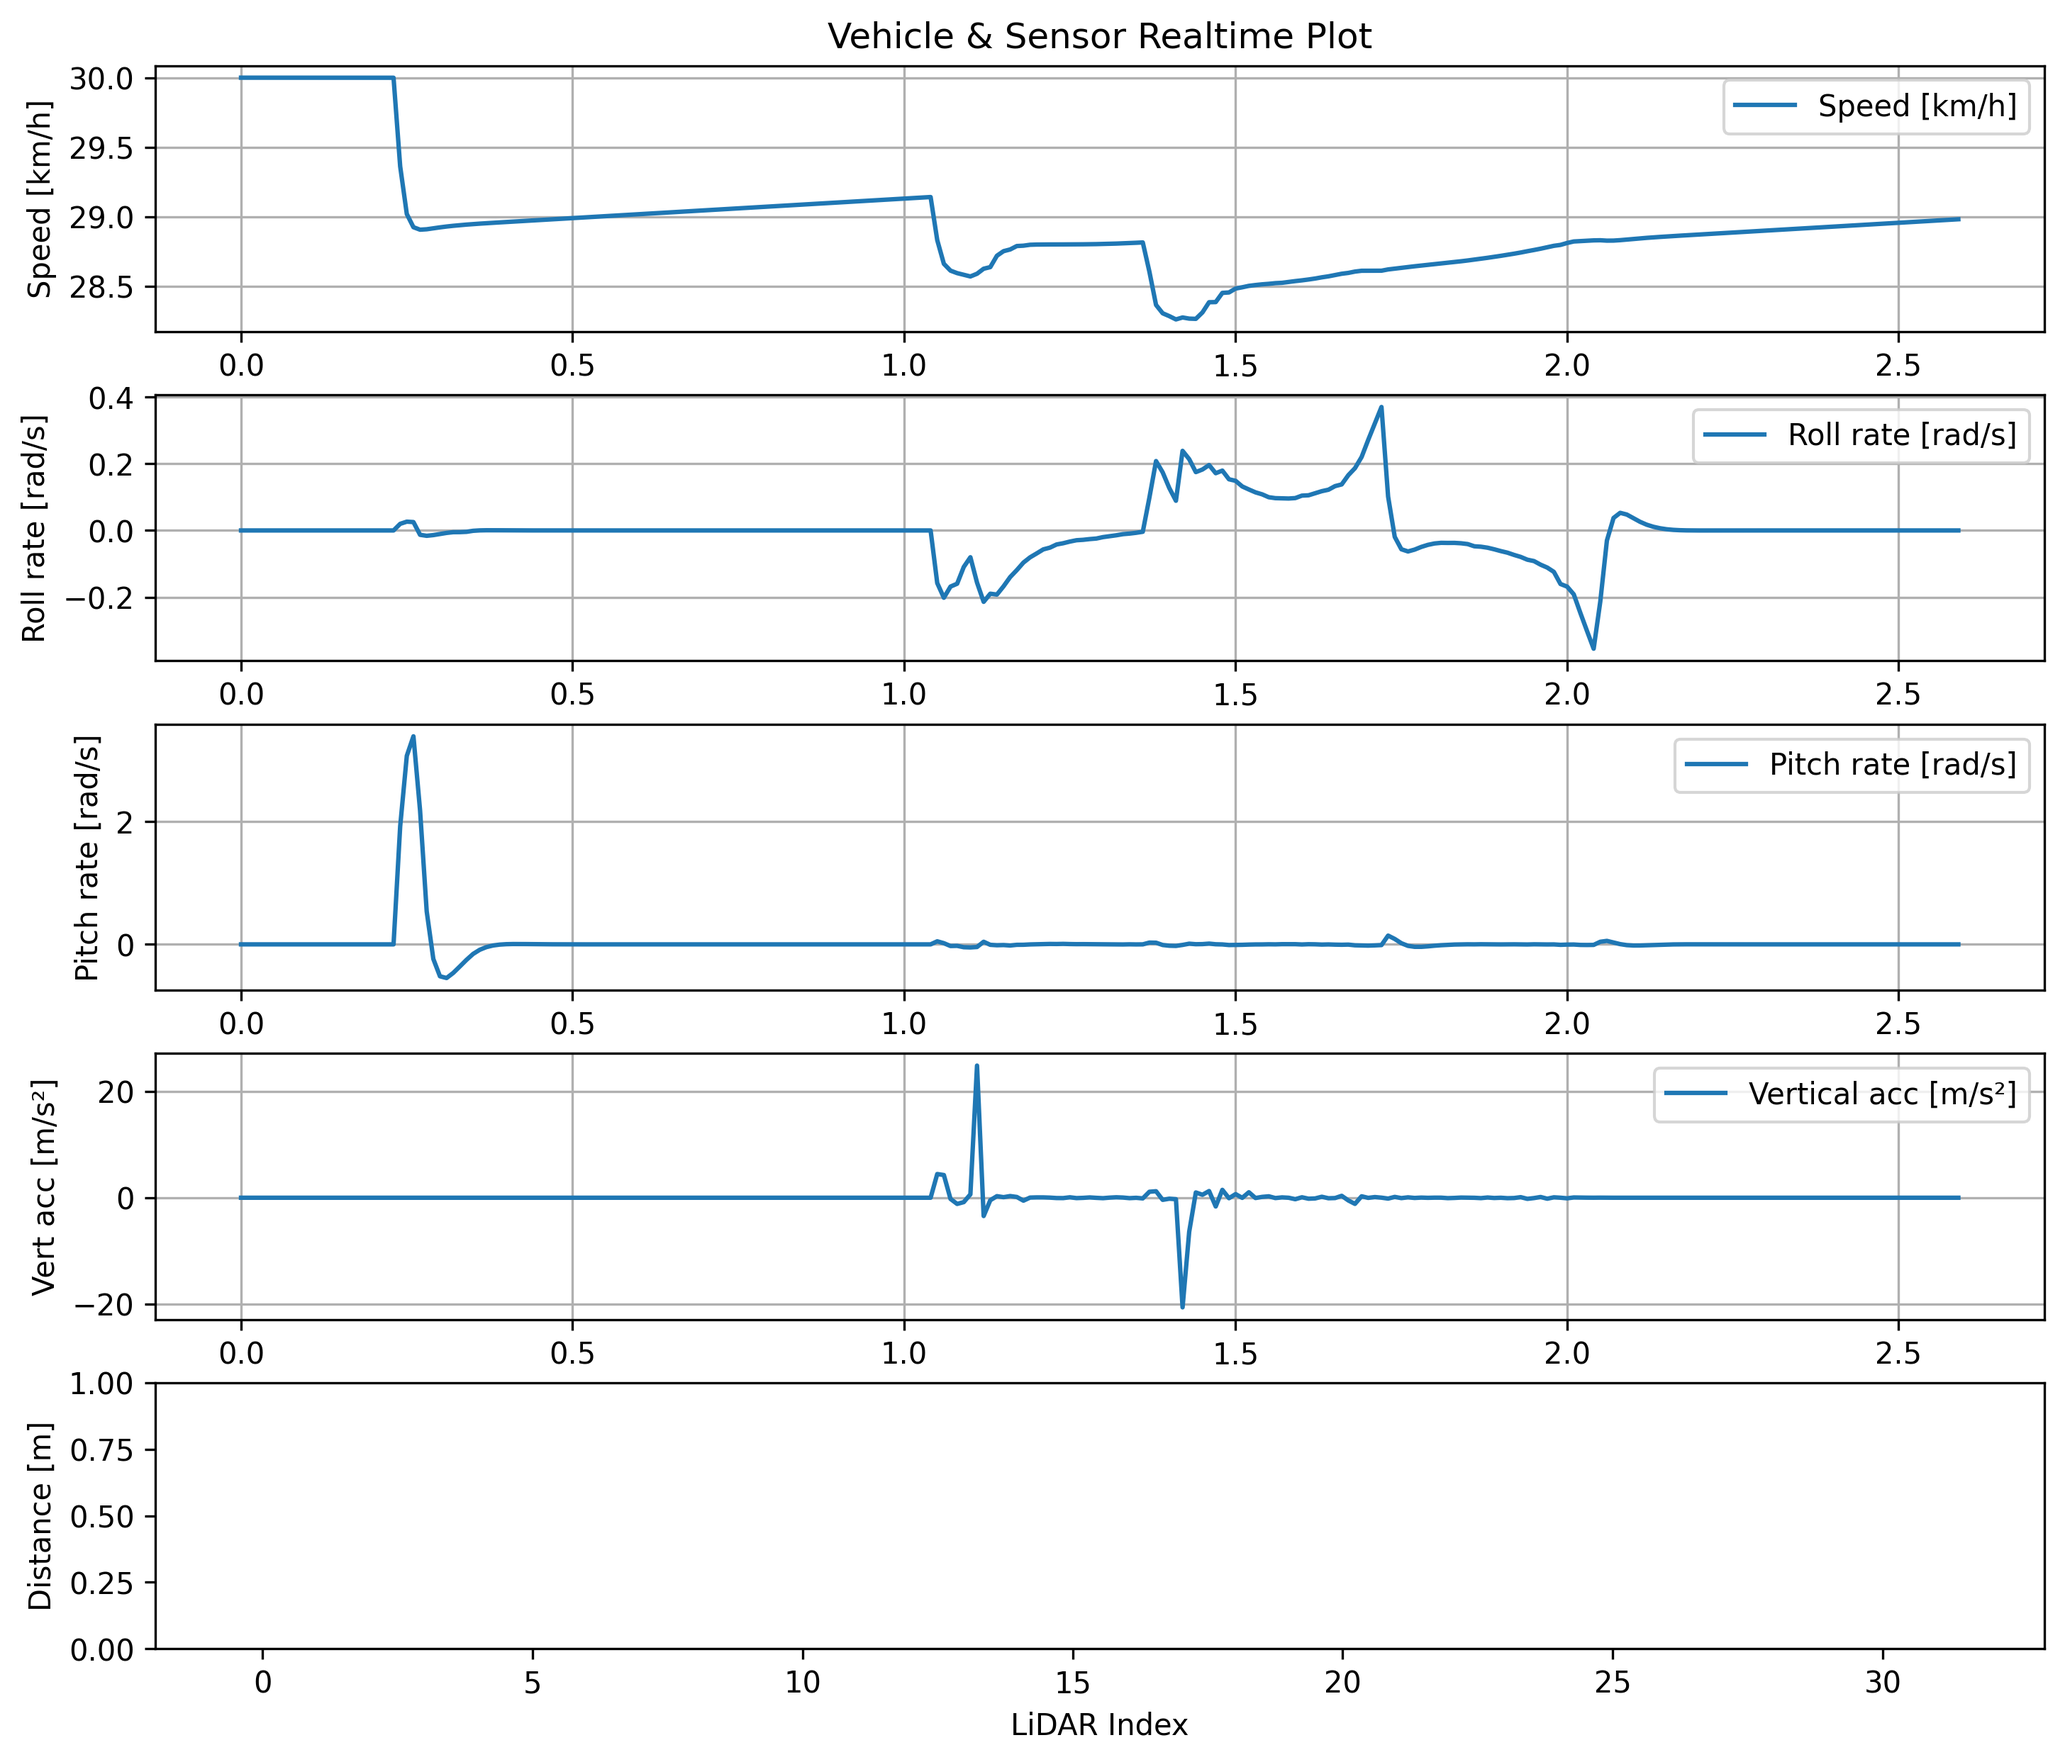
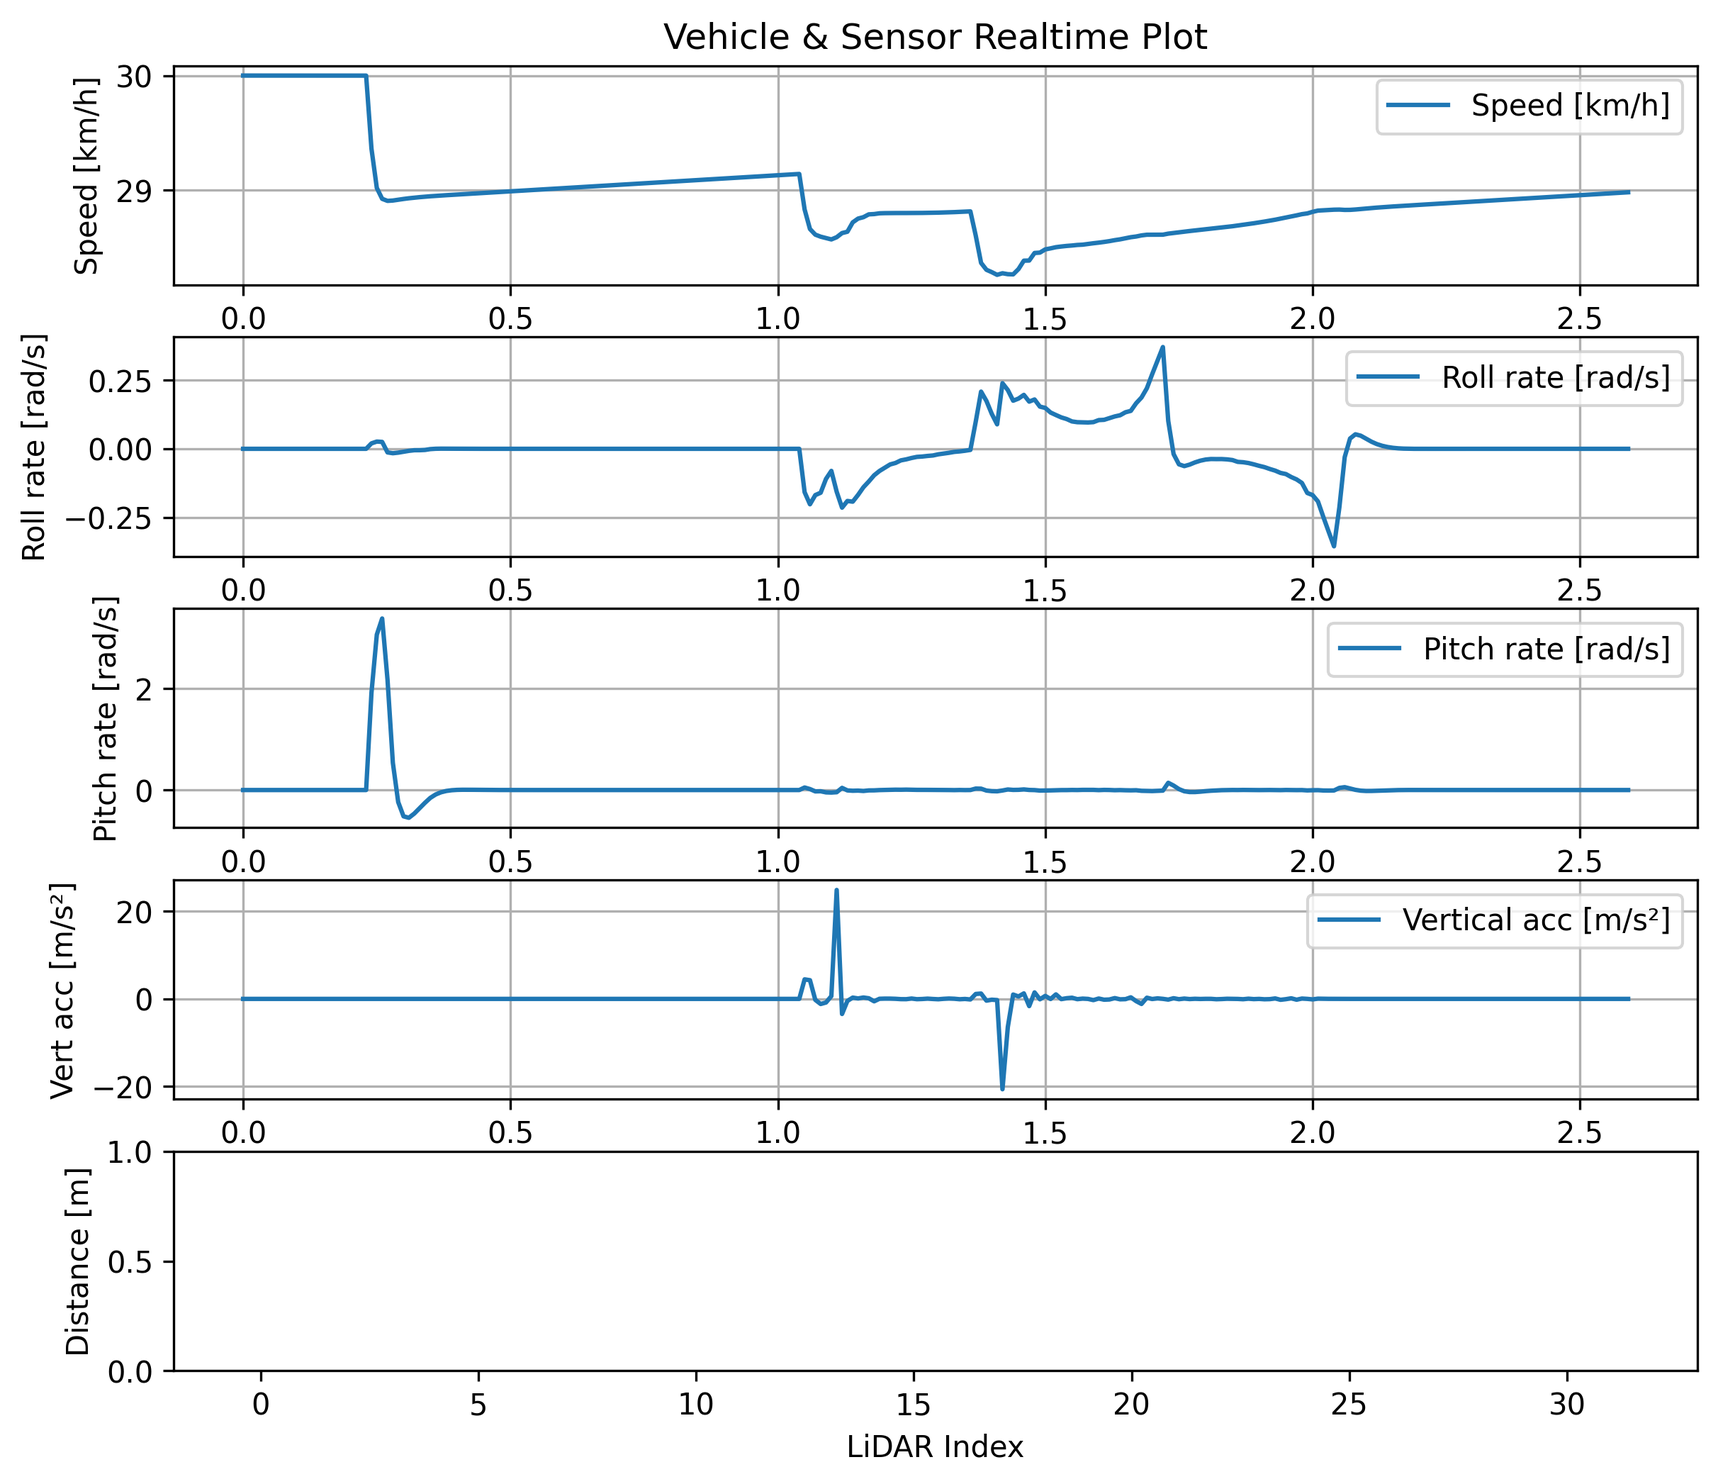
Changed Bump Shape
Speed Bump 형상이 국토교통부 기준을 따르도록 변경

diff --git a/utils/speed_bump.py b/utils/speed_bump.py
@@ -15,9 +15,17 @@ class BumpConfig:
 
     num_bumps: int = 5
 
-    a_range: tuple = (2.5, 3.5)
-    b_range: tuple = (0.1, 0.2)
-    h_range: tuple = (4.5, 5.0)
+    #==========[speed bump 형상]==============
+    # 국토교통부 기준 규격
+    #   - 과속방지턱은 차량 속도를 30km/h 이하로 제한하기 위해 사용함
+    #   - 주행방향 길이는 3m, 높이 10cm를 권장함
+    #   - 단 폭이 6m 이하의 소도로에서는 주행방향 길이는 2m, 높이 7.5cm 권장함
+    # 출처: https://www.molit.go.kr/USR/I0204/m_45/dtl.jsp?gubun=&search=&search_dept_id=&search_dept_nm=&old_search_dept_nm=&psize=10&search_regdate_s=&search_regdate_e=&srch_usr_nm=N&srch_usr_num=&srch_usr_year=&srch_usr_titl=N&srch_usr_ctnt=N&lcmspage=841&idx=8453
+
+    # 따라서 시뮬레이션에 사용될 bump 형상은 주행방향 길이 3m +-0.2m, 높이 10cm +- 2cm에서 uniform distribution sampling
+    a_range: tuple = (2.8, 3.2)  #[m]
+    b_range: tuple = (0.08, 0.12)  #[m]
+    h_range: tuple = (4.5, 5.5)  #[m]
     segments: int = 80
 
     pos_x: float = 0.0
